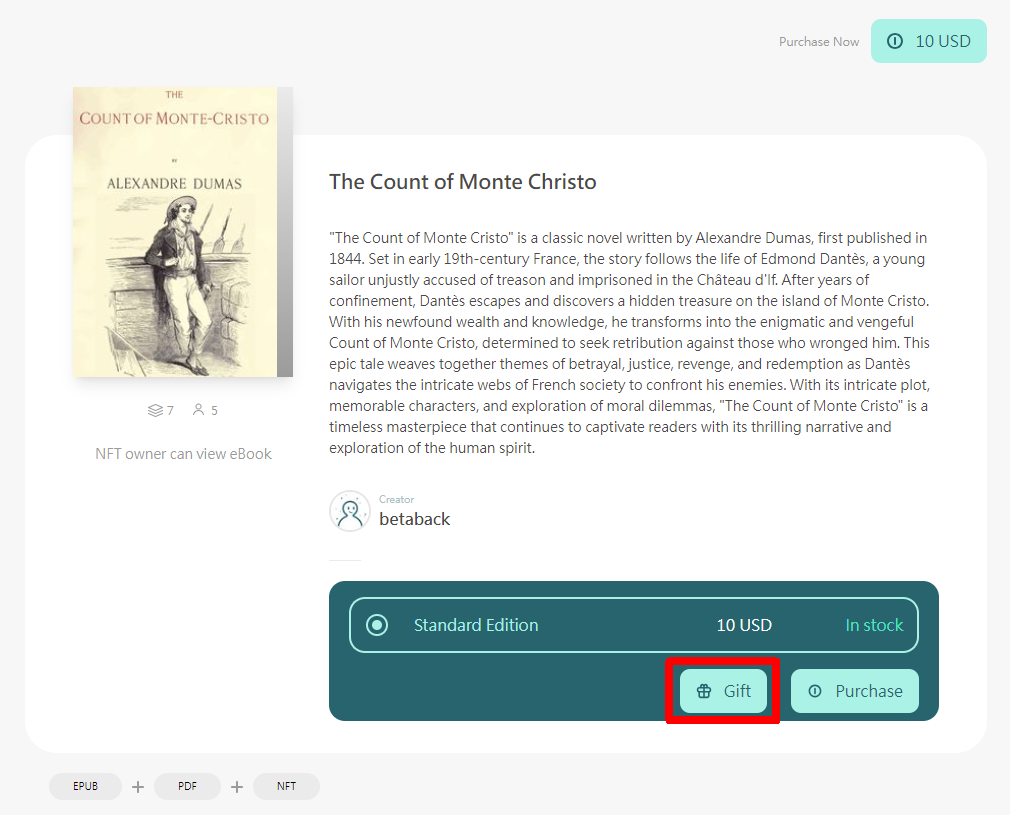
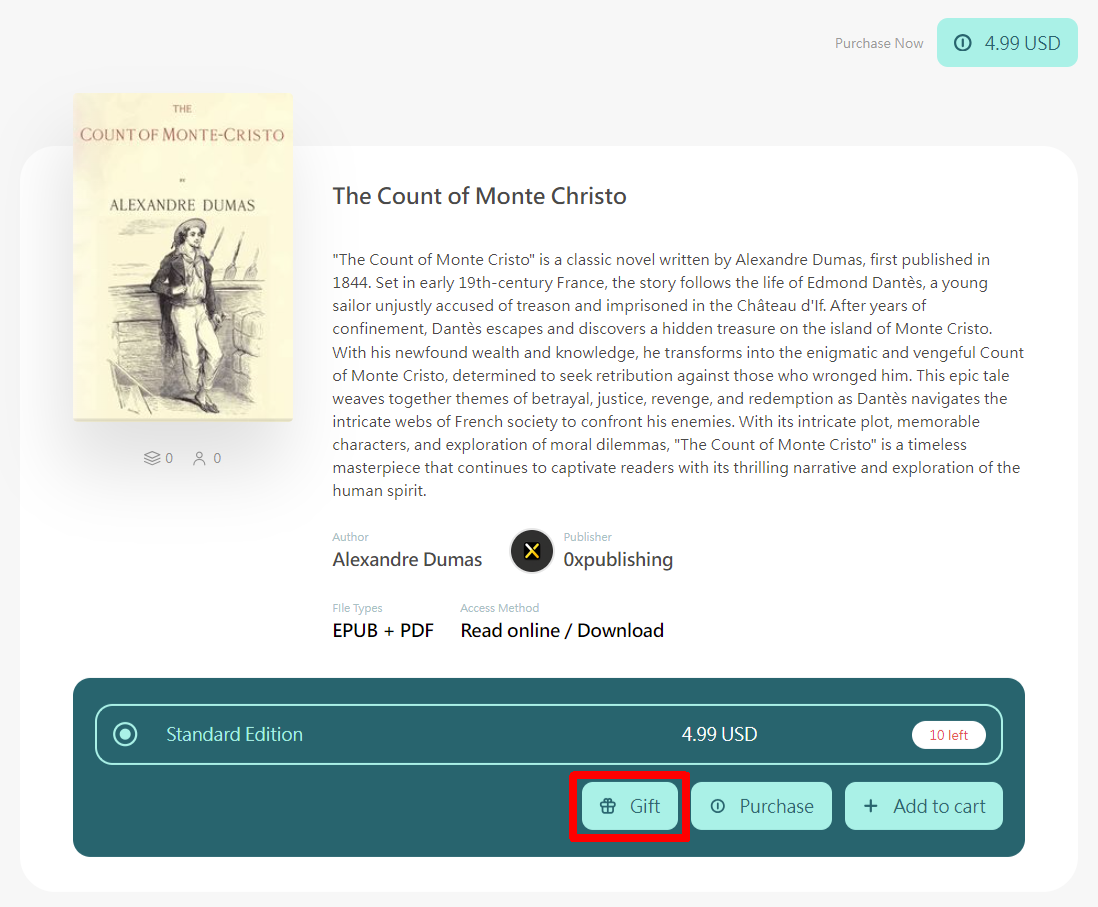
GITBOOK-4679: Gift an ebook

diff --git a/depub/ebook/README.md b/depub/ebook/README.md
@@ -8,9 +8,19 @@ No matter if you have a crypto wallet or not, collecting ebooks on desktop or mo
 
 ## Step 1: Start Purchasing
 
+You can add the book to your shopping cart or purchase it directly
+
+### Add to Cart
+
+Go to the ebook’s page and click "Add to Cart".
+
+<figure><img src="../../.gitbook/assets/Collect NFT Book 1a-en.png" alt=""><figcaption><p>Click "Add to Cart"</p></figcaption></figure>
+
+### Purchase
+
 Go to the ebook’s page and click "Purchase".
 
-<figure><img src="../../.gitbook/assets/Collect NFT Book 1-en.png" alt=""><figcaption><p>Click "Purchase".</p></figcaption></figure>
+<figure><img src="../../.gitbook/assets/Collect NFT Book 1-en.png" alt=""><figcaption><p>Click "Purchase"</p></figcaption></figure>
 
 ## Step 2: Show your support with a tip!
 
@@ -18,13 +28,25 @@ In addition to the book price, you can now further support the author by tipping
 
 <figure><img src="../../.gitbook/assets/Collect NFT Book 2-en.png" alt=""><figcaption><p>Show your support with a tip!</p></figcaption></figure>
 
-## Step 3: Credit Card Payment
+## Step3: You might also like...
 
-The Stripe page will appear. Enter your email and credit card information, then click "Pay". If you have tipped the author extra, it will display "Extra Tip".
+The You might also like... page pops up, and you can click "Add to cart" and add the ebook to your shopping cart.
+
+<figure><img src="../../.gitbook/assets/Collect NFT Book 2a-en.png" alt=""><figcaption><p>Click "Add to cart"</p></figcaption></figure>
+
+## Step 4: Credit Card Payment
+
+If you choose Add to cart, click on the shopping cart icon in the upper right corner of the page to view the order details. After confirming everything is correct, click ‘Checkout by card’.
+
+If you click Purchase directly, you’ll be redirected to the Stripe page.
+
+<figure><img src="../../.gitbook/assets/Collect NFT Book 2b-en.png" alt=""><figcaption><p>Shopping Cart</p></figcaption></figure>
+
+On the Stripe page, enter your email and credit card information, then click "Pay". If you have tipped the author extra, it will display "Extra Tip".
 
 <figure><img src="../../.gitbook/assets/Collect NFT Book 3.png" alt=""><figcaption><p>Enter your information on the Stripe payment page</p></figcaption></figure>
 
-## Step 4: Successful Purchase of ebook
+## Step 5: Successful Purchase of ebook
 
 A page pops up saying Thank you for your support, click "Start Claiming my eBook" to receive the ebook. At the same time, you will also receive an email to claim the book.
 
@@ -32,7 +54,7 @@ A page pops up saying Thank you for your support, click "Start Claiming my eBook
 
 <figure><img src="../../.gitbook/assets/Collect NFT Book 5.png" alt=""><figcaption><p> Email notification of climing an ebook</p></figcaption></figure>
 
-## Step 5: Connect Liker Land Account
+## Step 6: Connect Liker Land Account
 
 Click "Sign Up with Email", "Or log in with another method" to register or log in to your Liker Land account.
 
@@ -44,19 +66,19 @@ Learn more about Sign Up with Email:
 [register](../../user-guide/liker-id/register/)
 {% endcontent-ref %}
 
-## Step 6: Confirm Wallet Address
+## Step 7: Confirm Wallet Address
 
 A wallet address will appear on the page where this book will be added to the following account, confirm it is correct and then click "Confirm". You can also check "[Bookshelf](../liker-land/bookshelf.md)" at any time to see if the wallet address is correct.
 
 <figure><img src="../../.gitbook/assets/Collect NFT Book 7-en.png" alt=""><figcaption><p>Click "Confirm" to confirm wallet address</p></figcaption></figure>
 
-## Step 7: Leave a Message for the Author
+## Step 8: Leave a Message for the Author
 
 Enter the message you want to leave for the author, and after completion, click "Confirm".
 
 <figure><img src="../../.gitbook/assets/Collect NFT Book 8-en.png" alt=""><figcaption><p>Enter the message you want to leave for the author and click "Confirm"</p></figcaption></figure>
 
-## Step 8: Successfully Claim the eBook
+## Step 9: Successfully Claim the eBook
 
 A page appears saying you have successfully claimed the eBook, you can also click "View Collection" to check the ebooks you have purchased.
 
@@ -64,13 +86,13 @@ A page appears saying you have successfully claimed the eBook, you can also clic
 
 <figure><img src="../../.gitbook/assets/Collect NFT Book 10-en.png" alt=""><figcaption><p>Go to Bookshelf and check your collection</p></figcaption></figure>
 
-## Step 9: Reading the ebook
+## Step 10: Reading the ebook
 
 Users can click “Open Book” and select any one of the file formats to read the ebook.
 
 <figure><img src="../../.gitbook/assets/Collect NFT Book 11-en.png" alt=""><figcaption><p>Select any one of the file formats to read the ebook</p></figcaption></figure>
 
-## Step 10: Downloading the ebook File
+## Step 11: Downloading the ebook File
 
 If the author of the purchased ebook allows downloading the file, click the download icon in the top right corner to download the book file.
 

diff --git a/depub/ebook/gift.md b/depub/ebook/gift.md
@@ -10,7 +10,7 @@ The ebook gifting feature is only applicable for credit card payments. The steps
 
 Go to the e-book’s page and click "Gift".
 
-<figure><img src="../../.gitbook/assets/Gift 1-en.png" alt=""><figcaption><p>Click "Gift".</p></figcaption></figure>
+<figure><img src="broken-reference" alt=""><figcaption><p>Click "Gift".</p></figcaption></figure>
 
 ## Step 2: Fill in Details
 
